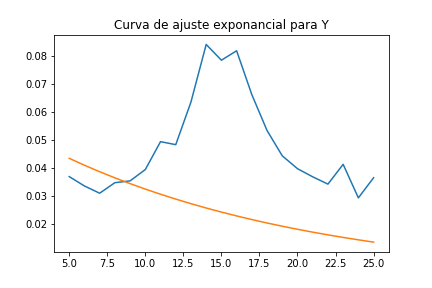
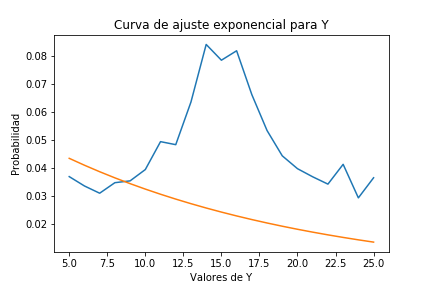
Reajustes

Changed region(s): [[0.4213, 0.9375, 0.6019, 1.0], [0.5718, 0.0625, 0.7523, 0.125], [0.0301, 0.375, 0.0602, 0.5938]]

diff --git a/Tarea3.py b/Tarea3.py
@@ -54,14 +54,18 @@ sumaX=np.sum(datos_mod, axis=1)
 print("La suma para el eje x para la funcion de densidad de X es: ", np.sum(sumaX))
 print("La suma para el eje y para la funcion de densidad de Y es: ", np.sum(sumaY))
 
-plt.plot(valoresY, sumaY)
-plt.title("Funcion de densidad marginal para Y")
-plt.savefig("Graficas/Grafica_para_Y.png")
-plt.cla()
-
 plt.plot(valoresX, sumaX)
+plt.xlabel("Valores de X")
+plt.ylabel("Probabilidad")
 plt.title("Funcion de densidad marginal para X")
 plt.savefig("Graficas/Grafica_para_X.png")
+plt.cla()
+
+plt.plot(valoresY, sumaY)
+plt.xlabel("Valores de Y")
+plt.ylabel("Probabilidad")
+plt.title("Funcion de densidad marginal para Y")
+plt.savefig("Graficas/Grafica_para_Y.png")
 plt.cla()
 
 ########################
@@ -90,6 +94,8 @@ Yys=gaussiana(valoresY,paramY[0],paramY[1])
 #Genero los plots
 plt.plot(valoresX, sumaX)
 plt.plot(valoresX,Xys)
+plt.xlabel("Valores de X")
+plt.ylabel("Probabilidad")
 plt.title("Curva de ajuste gaussiana para X")
 plt.savefig("Graficas/Grafica_para_X_Curva_de_ajuste_normal.png")
 plt.cla()
@@ -97,6 +103,8 @@ plt.cla()
 
 plt.plot(valoresY, sumaY)
 plt.plot(valoresY,Yys)
+plt.xlabel("Valores de Y")
+plt.ylabel("Probabilidad")
 plt.title("Curva de ajuste gaussiana para X")
 plt.savefig("Graficas/Grafica_para_Y_Curva_de_ajuste_normal.png")
 plt.cla()
@@ -130,6 +138,8 @@ for i in range(0,len(valoresY)):
 #Genero los plots
 plt.plot(valoresX, sumaX)
 plt.plot(valoresX,Xys_rayleigh)
+plt.xlabel("Valores de X")
+plt.ylabel("Probabilidad")
 plt.title("Curva de ajuste rayleigh para X")
 plt.savefig("Graficas/Grafica_para_X_Curva_de_ajuste_rayleigh.png")
 plt.cla()
@@ -137,6 +147,8 @@ plt.cla()
 
 plt.plot(valoresY, sumaY)
 plt.plot(valoresY,Yys_rayleigh)
+plt.xlabel("Valores de Y")
+plt.ylabel("Probabilidad")
 plt.title("Curva de ajuste rayleigh para Y")
 plt.savefig("Graficas/Grafica_para_Y_Curva_de_ajuste_rayleigh.png")
 plt.cla()
@@ -172,6 +184,8 @@ for i in range(0,len(valoresY)):
 #Genero los plots
 plt.plot(valoresX, sumaX)
 plt.plot(valoresX,Xys_exp)
+plt.xlabel("Valores de X")
+plt.ylabel("Probabilidad")
 plt.title("Curva de ajuste exponencial para X")
 plt.savefig("Graficas/Grafica_para_X_Curva_de_ajuste_exp.png")
 plt.cla()
@@ -179,7 +193,9 @@ plt.cla()
 
 plt.plot(valoresY, sumaY)
 plt.plot(valoresY,Yys_exp)
-plt.title("Curva de ajuste exponancial para Y")
+plt.xlabel("Valores de Y")
+plt.ylabel("Probabilidad")
+plt.title("Curva de ajuste exponencial para Y")
 plt.savefig("Graficas/Grafica_para_Y_Curva_de_ajuste_exp.png")
 plt.cla()
 
@@ -214,6 +230,8 @@ for i in range(0,len(valoresY)):
 #Genero los plots
 plt.plot(valoresX, sumaX)
 plt.plot(valoresX,Xys_uni)
+plt.xlabel("Valores de X")
+plt.ylabel("Probabilidad")
 plt.title("Curva de ajuste uniforme para X")
 plt.savefig("Graficas/Grafica_para_X_Curva_de_ajuste_uni.png")
 plt.cla()
@@ -221,6 +239,8 @@ plt.cla()
 
 plt.plot(valoresY, sumaY)
 plt.plot(valoresY,Yys_uni)
+plt.xlabel("Valores de Y")
+plt.ylabel("Probabilidad")
 plt.title("Curva de ajuste uniforme para Y")
 plt.savefig("Graficas/Grafica_para_Y_Curva_de_ajuste_uni.png")
 plt.cla()
@@ -313,10 +333,10 @@ plt.title("Funcion de densidad conjunta a partir de los datos")
 plt.xlabel("Valores de X")
 plt.ylabel("Valores de Y")
 fig.tight_layout()
-
 plt.savefig("Graficas/Superficie_densidad_conjunta.png")
-
 plt.cla()
+
+#################
 
 def gaussianaR2(x,y,ax,ay,bx,by):
     #tpx=(-(x-ax)**2)/(2*bx)
@@ -349,7 +369,5 @@ plt.xlabel("Valores de X")
 plt.ylabel("Valores de Y")
 plt.title("Funcion de densidad conjunta a partir del modelo calculado")
 fig.tight_layout()
-
 plt.savefig("Graficas/Superficie_densidad_conjunta_del_modelo.png")
 plt.cla()
-
